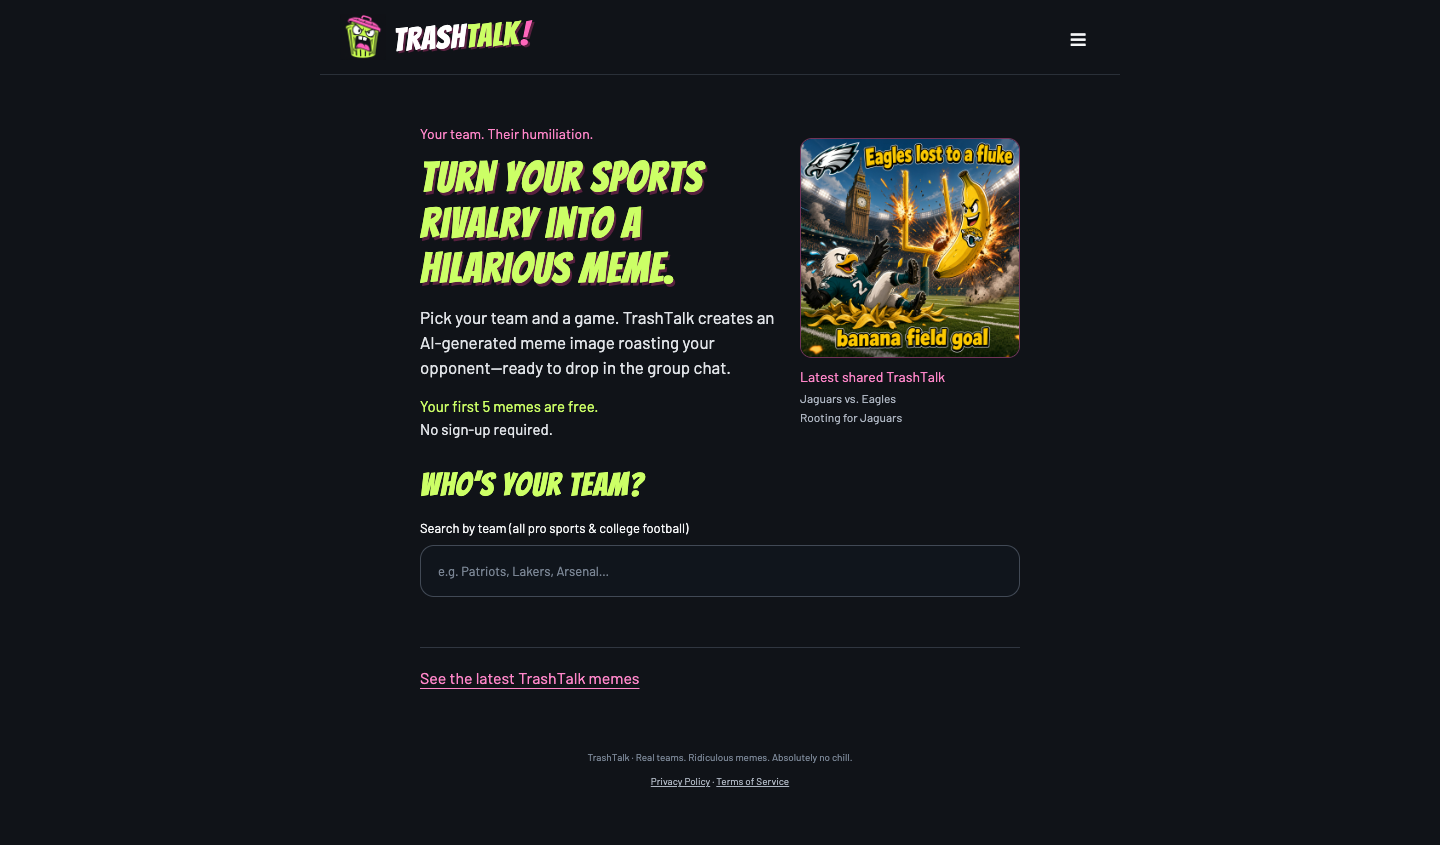
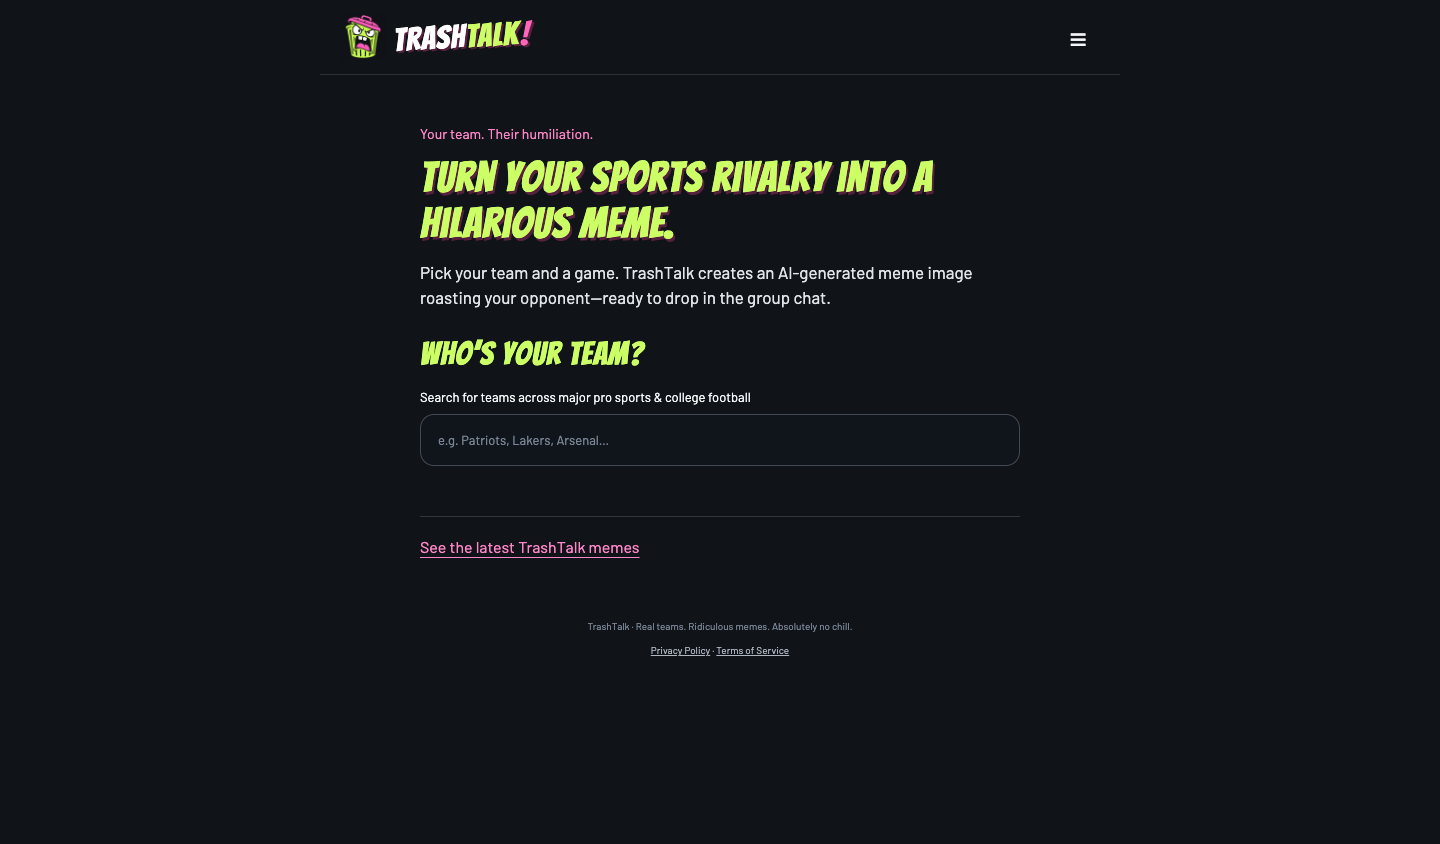
Simplify homepage introduction and clarify team search label

diff --git a/apps/web/src/main.tsx b/apps/web/src/main.tsx
@@ -45,7 +45,6 @@ function App() {
     [suggestion, setSuggestion] = useState(0),
     [query, setQuery] = useState(""),
     [games, setGames] = useState<Game[]>([]),
-    [latestMeme, setLatestMeme] = useState<any>(null),
     [galleryOpen, setGalleryOpen] = useState(false),
     [game, setGame] = useState<Game | null>(saved.game || null),
     [favorite, setFavorite] = useState(saved.favorite || ""),
@@ -175,19 +174,6 @@ function App() {
       api("/generations/" + id)
         .then(setJob)
         .catch(() => {});
-  }, []);
-  useEffect(() => {
-    let stopped = false;
-    api("/latest-shared-meme")
-      .then((data) => {
-        if (!stopped) setLatestMeme(data.meme);
-      })
-      .catch(() => {
-        if (!stopped) setLatestMeme(null);
-      });
-    return () => {
-      stopped = true;
-    };
   }, []);
   useEffect(() => {
     sessionStorage.setItem(
@@ -726,43 +712,12 @@ function App() {
                               AI-generated meme image roasting your
                               opponent—ready to drop in the group chat.
                             </p>
-                            <p className="welcome-trial">
-                              <strong>Your first 5 memes are free.</strong>
-                              <span>No sign-up required.</span>
-                            </p>
                           </div>
-                          {latestMeme && (
-                            <figure className="welcome-example">
-                              <a
-                                href={`/m/${latestMeme.token}`}
-                                aria-label="Open the latest shared TrashTalk meme"
-                              >
-                                <img
-                                  src={`/m/${latestMeme.token}/image`}
-                                  width="640"
-                                  height="640"
-                                  alt={
-                                    latestMeme.caption ||
-                                    "Latest shared TrashTalk meme"
-                                  }
-                                  fetchPriority="high"
-                                />
-                              </a>
-                              <figcaption>
-                                <strong>Latest shared TrashTalk</strong>
-                                <span>{latestMeme.matchup}</span>
-                                {latestMeme.rootingFor && (
-                                  <span>
-                                    Rooting for {latestMeme.rootingFor}
-                                  </span>
-                                )}
-                              </figcaption>
-                            </figure>
-                          )}
                         </div>
                         <h2 className="team-invitation">Who’s your team?</h2>
                         <label className="search discovery-choice-label">
-                          Search by team (all pro sports &amp; college football)
+                          Search for teams across major pro sports &amp; college
+                          football
                           <input
                             type="search"
                             role="combobox"

diff --git a/scripts/check-homepage-intro.ts b/scripts/check-homepage-intro.ts
@@ -61,13 +61,6 @@ for (const width of [390, 1440]) {
   page.on("request", (request) =>
     requests.push(new URL(request.url()).pathname),
   );
-  if (!process.argv.includes("--production"))
-    await page.route("**/m/example/image", (route) =>
-      route.fulfill({
-        path: "reports/preview-e2e-image.jpg",
-        contentType: "image/jpeg",
-      }),
-    );
   await page.goto(origin);
   await expect(
     page.getByRole("heading", {
@@ -77,28 +70,16 @@ for (const width of [390, 1440]) {
   await expect(
     page.getByRole("heading", { name: "Who’s your team?" }),
   ).toBeVisible();
-  await expect(page.locator(".welcome-trial")).toContainText(
-    "No sign-up required.",
+  await expect(page.locator(".welcome-trial")).toHaveCount(0);
+  await expect(page.locator(".welcome-example")).toHaveCount(0);
+  await expect(page.getByRole("combobox")).toHaveAccessibleName(
+    "Search for teams across major pro sports & college football",
   );
-  await expect
-    .poll(() =>
-      page
-        .locator(".welcome-example img")
-        .evaluate((img: HTMLImageElement) => img.naturalWidth),
-    )
-    .toBeGreaterThan(0);
+  expect(requests).not.toContain("/api/latest-shared-meme");
   await expect(page.locator(".featured-games")).toHaveCount(0);
   await expect(page.locator(".shared-gallery")).toHaveCount(0);
   expect(requests).not.toContain("/api/shared-memes");
   expect(requests).not.toContain("/api/featured-games");
-  if (process.argv.includes("--production")) {
-    const response = await page.request.get(`${origin}/api/latest-shared-meme`);
-    const data = await response.json();
-    await expect(page.locator(".welcome-example img")).toHaveAttribute(
-      "src",
-      `/m/${data.meme.token}/image`,
-    );
-  }
   await page.evaluate(() => document.fonts.ready);
   const search = await page.getByRole("combobox").boundingBox();
   expect(search!.y + search!.height).toBeLessThan(844);
@@ -132,7 +113,7 @@ for (const width of [390, 1440]) {
   results.push({
     width,
     searchBottom: search!.y + search!.height,
-    exampleLoaded: true,
+    exampleRemoved: true,
     creationEnabledWithoutPhotoOrWord: true,
     errors,
   });

diff --git a/apps/web/src/style.css b/apps/web/src/style.css
@@ -1683,10 +1683,10 @@ button.stats-card:focus-visible {
   }
 }
 
-/* Show the payoff while keeping the first action within easy reach. */
+/* Keep the introduction compact above team search. */
 .welcome-intro {
   display: grid;
-  grid-template-columns: minmax(0, 1fr) 220px;
+  grid-template-columns: 1fr;
   gap: 24px;
   align-items: center;
   margin-bottom: 28px;
@@ -1707,40 +1707,6 @@ button.stats-card:focus-visible {
   line-height: 1.45;
   margin: 0;
 }
-.welcome-trial {
-  margin: 16px 0 0;
-  font-size: 15px;
-  line-height: 1.5;
-}
-.welcome-trial strong {
-  display: block;
-  color: #ccff66;
-}
-.welcome-trial span {
-  color: #e1e4e8;
-}
-.welcome-example {
-  margin: 0;
-}
-.welcome-example img {
-  display: block;
-  width: 100%;
-  height: auto;
-  border-radius: 12px;
-  border: 1px solid #ff66bb66;
-}
-.welcome-example figcaption {
-  display: grid;
-  gap: 3px;
-  margin-top: 10px;
-  font-size: 12px;
-  color: #aeb6c2;
-  line-height: 1.35;
-}
-.welcome-example figcaption strong {
-  color: #ff86c9;
-  font-size: 14px;
-}
 .team-invitation {
   margin: 0 0 14px;
   font-size: 32px;
@@ -1759,20 +1725,8 @@ button.stats-card:focus-visible {
   .welcome-copy h1 {
     font-size: 36px;
   }
-  .welcome-example {
-    display: grid;
-    grid-template-columns: 112px minmax(0, 1fr);
-    gap: 14px;
-    align-items: center;
-  }
-  .welcome-example figcaption {
-    margin: 0;
-  }
 }
 
-.welcome-intro:not(:has(.welcome-example)) {
-  grid-template-columns: 1fr;
-}
 .gallery-discovery {
   margin-top: 32px;
   padding-top: 20px;

diff --git a/README.md b/README.md
@@ -112,6 +112,6 @@ All date/time columns appear on the left of detail tables, with last visit/last 
 
 ## Homepage discovery
 
-The homepage prioritizes team search. Its example is the most recently shared, completed, undeleted meme from `/api/latest-shared-meme`; clicking the image opens its public share page. The endpoint returns only public display fields. First publication records sharing time; legacy shares retain their previously recorded timestamp. Empty or unavailable results leave the introduction and search usable without an example.
+The homepage prioritizes team search with a compact introduction and the label “Search for teams across major pro sports & college football”. It does not show trial messaging or a shared-meme example, and does not fetch the example endpoint.
 
 “See the latest TrashTalk memes” reveals the paginated shared gallery on demand. No gallery batch or live-game list is fetched before that action. Featured-game backend ranking remains available, but the homepage no longer renders those cards or polls the endpoint. Browser checks: `scripts/check-homepage-intro.ts` (add `--production` for live verification) and `scripts/check-shared-gallery.ts`; local checks use Vite port 5178.
